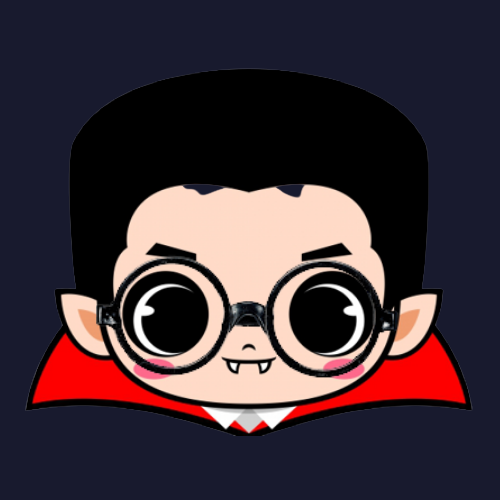
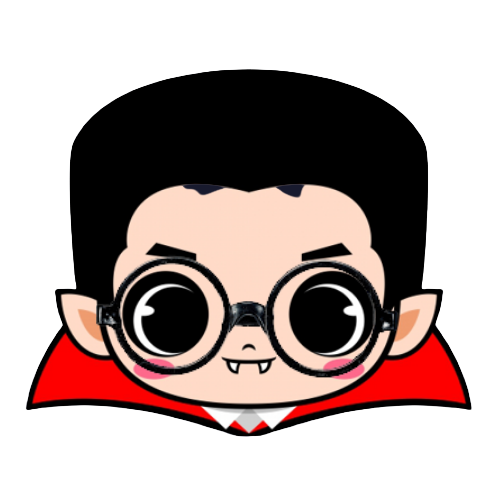
Refactor: optimize image HomeVSExtension

diff --git a/components/youtube/Youtube.tsx b/components/youtube/Youtube.tsx
@@ -1,17 +1,15 @@
+import { IframeHTMLAttributes } from "react";
 import classNames from "utils/className";
 
-interface YoutubeProps {
-  url: string;
-  className?: string;
-}
+interface YoutubeProps extends IframeHTMLAttributes<HTMLIFrameElement> {}
 
-const YouTube = ({ url, className = "" }: YoutubeProps) => {
+const YouTube = ({ className = "", ...props }: YoutubeProps) => {
   return (
     <iframe
-      src={url}
       allow="autoplay; encrypted-media"
       title="Embedded YouTube video"
       className={classNames("w-full aspect-video", className)}
+      {...props}
     />
   );
 };

diff --git a/layouts/Header.tsx b/layouts/Header.tsx
@@ -23,8 +23,8 @@ const Header = () => {
   return (
     <header className="absolute top-0 left-0 right-0 z-10">
       <div className="layout-container">
-        <nav className="py-5">
-          <ul className="flex items-center gap-10 font-medium">
+        <nav className="py-8">
+          <ul className="flex items-center justify-center gap-10 font-medium">
             {links.map((link) => (
               <li key={link.path}>
                 <Link href={link.path}>

diff --git a/layouts/LayoutHome.tsx b/layouts/LayoutHome.tsx
@@ -11,7 +11,7 @@ const LayoutHome = ({ children, className = "" }: LayoutHomeProps) => {
   return (
     <div className={classNames("flex flex-col min-h-screen", className)}>
       <Header />
-      <main className="flex-1 pt-16">{children}</main>
+      <main className="flex-1 pt-[88px]">{children}</main>
       <Footer />
     </div>
   );

diff --git a/components/icons/index.ts b/components/icons/index.ts
@@ -1,7 +1,4 @@
-import IconSun from "./IconSun";
-import IconMoon from "./IconMoon";
 import IconStar from "./IconStar";
-import IconDownload from "./IconDownload";
 import Icon404 from "./Icon404";
 
-export { IconSun, IconMoon, IconStar, IconDownload, Icon404 };
+export { IconStar, Icon404 };

diff --git a/server/schemas/project.js b/server/schemas/project.js
@@ -59,6 +59,12 @@ export default {
       type: "datetime",
     },
     {
+      name: "featured",
+      title: "Featured",
+      type: "boolean",
+      default: false,
+    },
+    {
       name: "content",
       title: "content",
       type: "markdown",

diff --git a/constants/data.ts b/constants/data.ts
@@ -63,7 +63,7 @@ export const extensions = [
   {
     name: "Faster Snippets",
     path: "/comming-soon",
-    image: "/faster-snippet.png",
+    image: "/faster-snippets.png",
     description: "Comming soon",
   },
 ];
